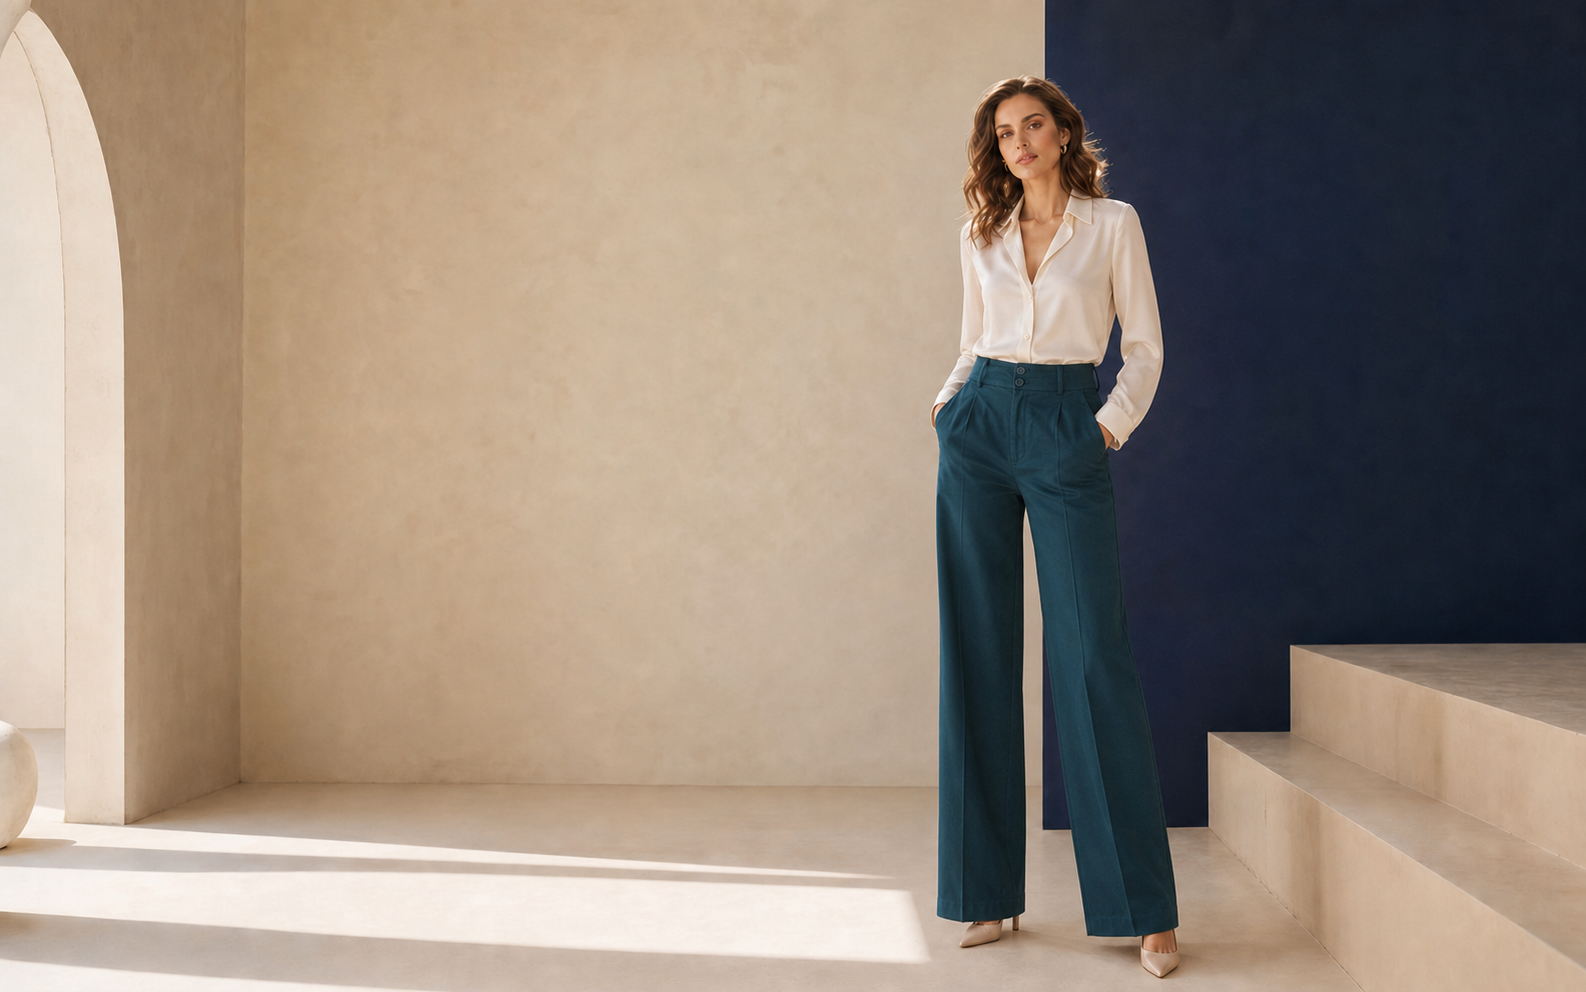
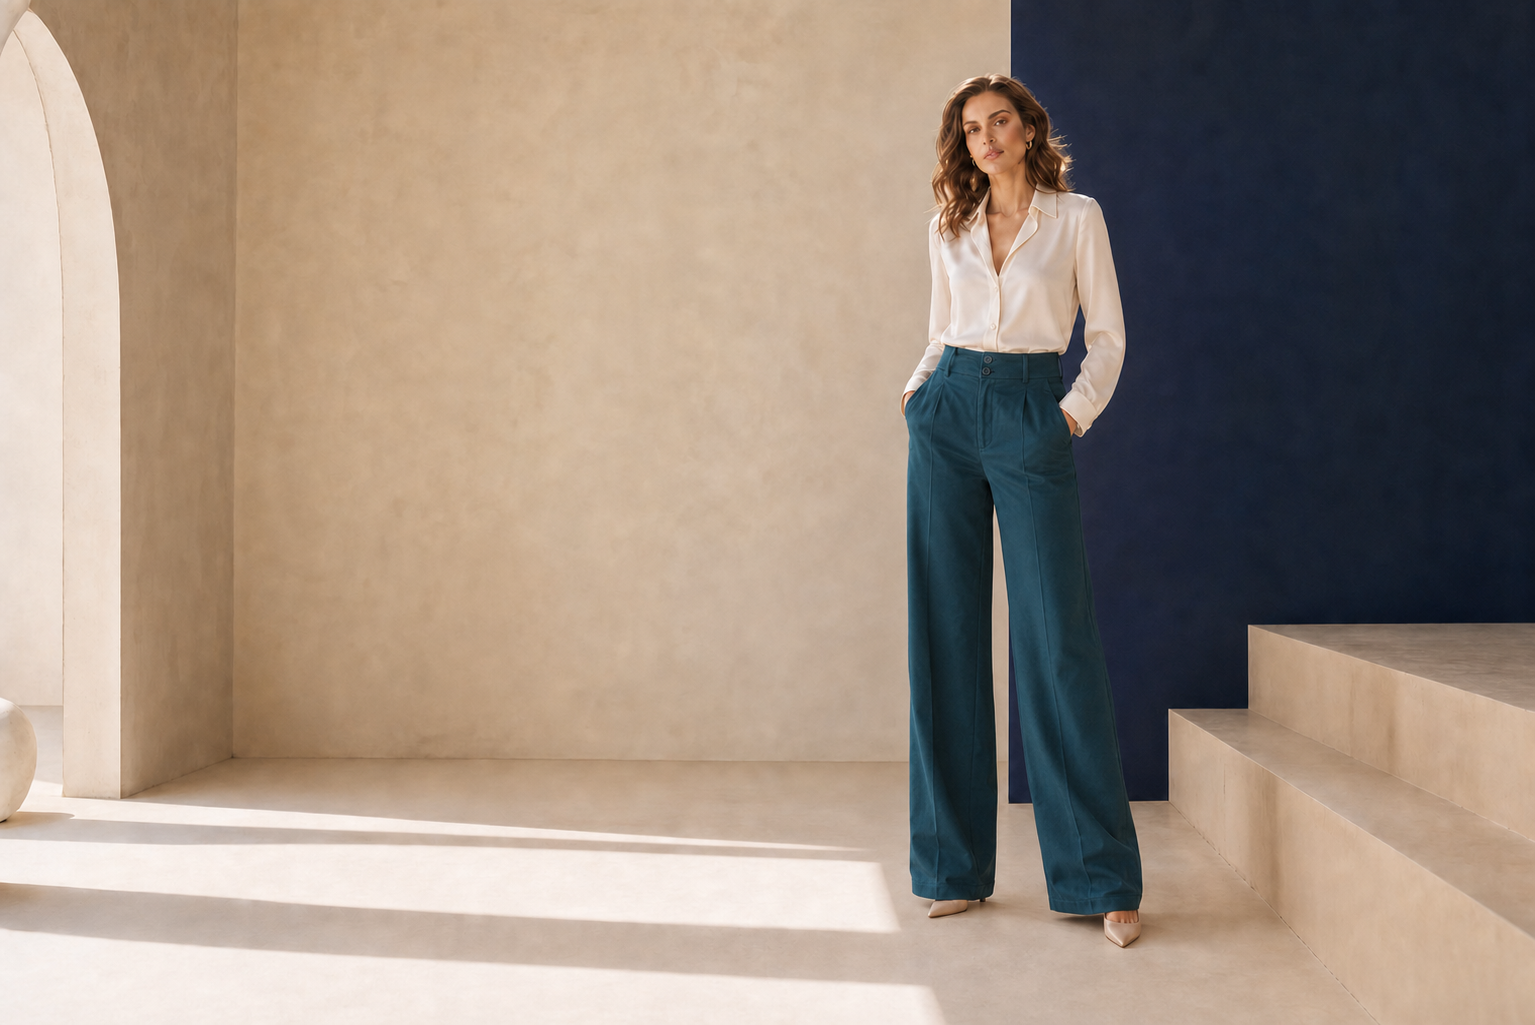
changes

diff --git a/src/app/layout.tsx b/src/app/layout.tsx
@@ -24,7 +24,7 @@ export const metadata: Metadata = {
     siteName: "Nina La Mode",
     title: "Tall Women's Trousers | Nina La Mode",
     description: "Classic high-waisted, wide-leg trousers made for tall women in UK sizes 12–20.",
-    images: [{ url: "/images/hero-tall-trousers.png", width: 1536, height: 1024, alt: "Nina La Mode Classic Tall trousers" }],
+    images: [{ url: "/images/hero-tall-trousers.png", width: 1535, height: 1025, alt: "Nina La Mode Classic Tall trousers" }],
   },
   twitter: { card: "summary_large_image", title: "Tall Women's Trousers | Nina La Mode", description: "High-waisted, wide-leg cotton trousers designed for tall women.", images: ["/images/hero-tall-trousers.png"] },
   robots: { index: true, follow: true },